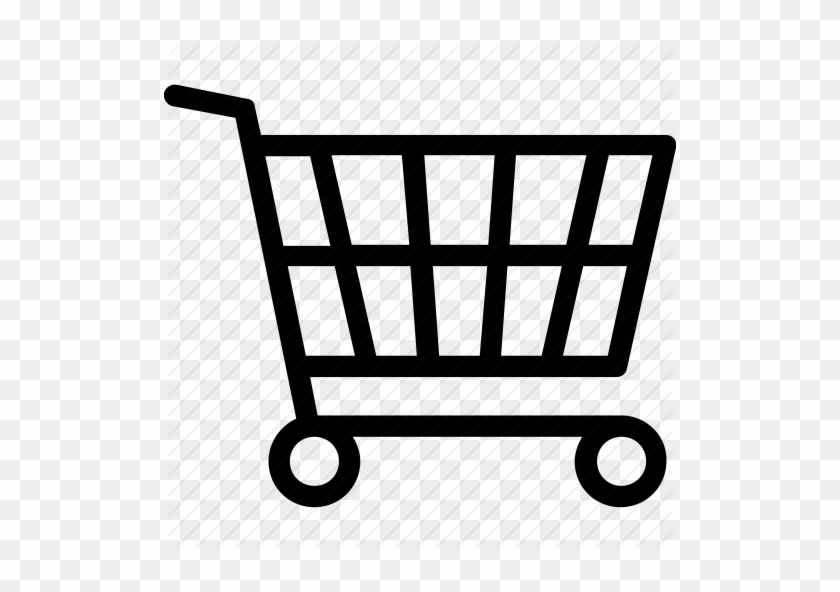
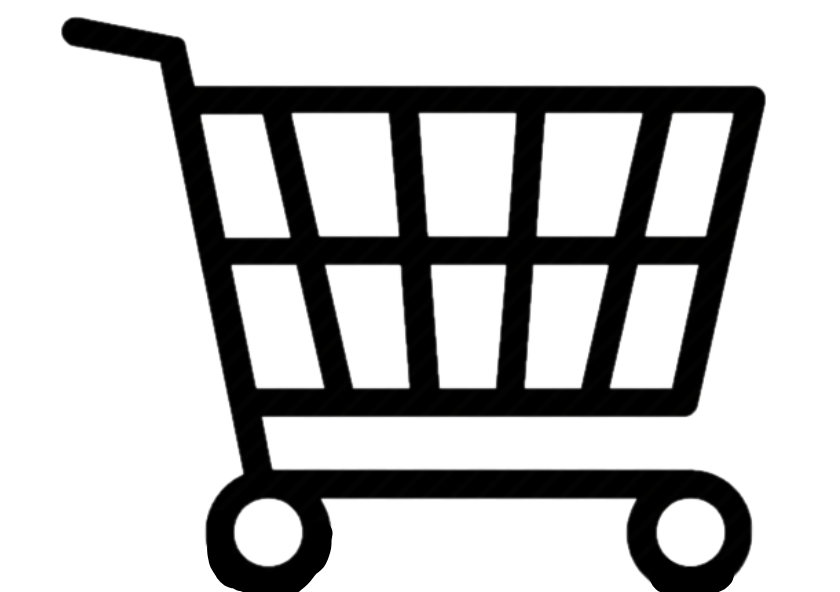
Added the product function, transparent cart

diff --git a/css/logincss.css b/css/logincss.css
@@ -6,7 +6,6 @@ html {
 }
 
 body {
-/* Remember to use the other versions for IE 10 and older browsers! */
 display: flex;
 justify-content: center;
 align-items: center;
@@ -14,9 +13,9 @@ min-height: 100%;
 font-family: 'lato', sans-serif;
 color: #fff;
 background: #c7acac;
-background: #16222A; /* fallback for old browsers */
-background: -webkit-linear-gradient(to top, #352d2d , #ffaec8); /* Chrome 10-25, Safari 5.1-6 */
-background: linear-gradient(to top, #352d2d , #ffaec8); /* W3C, IE 10+/ Edge, Firefox 16+, Chrome 26+, Opera 12+, Safari 7+ */
+background: #16222A; 
+background: -webkit-linear-gradient(to top, #352d2d , #ffaec8); 
+background: linear-gradient(to top, #352d2d , #ffaec8); 
 }
 
 .container {

diff --git a/css/background.css b/css/background.css
@@ -1,0 +1,6 @@
+body {
+    background: #c7acac;
+    background: #16222A;
+    background: -webkit-linear-gradient(to top, #352d2d , #ffaec8);
+    background: linear-gradient(to top, #352d2d , #ffaec8);
+}

diff --git a/index.php b/index.php
@@ -4,15 +4,14 @@ if (session_status() === PHP_SESSION_NONE) {
     session_start();
     $_SESSION['basketTotal'] = 0.00;
 }
-$_SESSION['username'] = "Harry";
 ?>
 
 <header>
     <link href="https://cdn.jsdelivr.net/npm/bootstrap@5.1.3/dist/css/bootstrap.min.css" rel="stylesheet" integrity="sha384-1BmE4kWBq78iYhFldvKuhfTAU6auU8tT94WrHftjDbrCEXSU1oBoqyl2QvZ6jIW3" crossorigin="anonymous">
     <script src="https://cdn.jsdelivr.net/npm/bootstrap@5.1.3/dist/js/bootstrap.bundle.min.js" integrity="sha384-ka7Sk0Gln4gmtz2MlQnikT1wXgYsOg+OMhuP+IlRH9sENBO0LRn5q+8nbTov4+1p" crossorigin="anonymous"></script>
+    <link rel="stylesheet" href="css/background.css">
 </header>
 
-<body>
     <nav class="navbar navbar-dark bg-dark justify-content-between">
         <a class="navbar-brand" style="margin-left:20px;">Vince Shops</a>
         <span class="navbar-text" style="margin-right:10px;">
@@ -26,15 +25,8 @@ $_SESSION['username'] = "Harry";
             <a href="#basket" style="margin-right:10px;"><img src="images/cart.png" style="height:30px;width:40px;"></a>
             <button class="btn btn-outline-success" style="margin-right:2px">
                 <?php
-                    $Currenttime = getTime();
-                    $time = date('H:i:s',strtotime("12 PM"));
                     if (isset($_SESSION['username'])){
-                        if($time > date('H:i:s')){
-                            echo "Good morning, ".$_SESSION['username'];
-                        } else {
-
-                            echo "Good afternoon, ".$_SESSION['username'];
-                        }
+                        echo "Hello, ".$_SESSION['username'];
                     } else {
                         echo "Login";
                     }
@@ -42,4 +34,9 @@ $_SESSION['username'] = "Harry";
             </button>
         </span>
     </nav>
+
+<body>
+    <div class="card-deck" style="display:flex">
+        <?php require('phpScripts/populateCards.php') ?>
+    </div>
 </body

diff --git a/loginPage.php b/loginPage.php
@@ -11,7 +11,7 @@ if(isset($_SESSION['username'])!="")
 <head>
   <link rel="stylesheet" href="https://maxcdn.bootstrapcdn.com/bootstrap/4.3.1/css/bootstrap.min.css">
   <link rel="stylesheet" href="css/logincss.css">
-  <title>Login | DigiTech</title>
+  <title>Login | Vince Shops</title>
   <link rel="icon" href="images/favicon.ico"/>
   <script src="https://use.typekit.net/rjb4unc.js"></script>
   <script>try{Typekit.load({ async: true });}catch(e){}</script>
@@ -20,7 +20,7 @@ if(isset($_SESSION['username'])!="")
 <div class="loginbackground">
 <body>
     <div class="container">
-    <div class="logo"><img src="images/icon.png" style="width:40px;height:40px;margin-top:5px;margin-right:5px;" /></div>
+    <div class="logo"><img src="images/cart.png" style="width:40px;height:40px;margin-top:5px;margin-right:5px;" /></div>
     <?php require('phpScripts/loginScript.php'); ?>
     <div class="login-item">
       <form method="post" class="form form-login">

diff --git a/phpScripts/populateCards.php b/phpScripts/populateCards.php
@@ -1,0 +1,22 @@
+<?php
+require('connectDB.php');
+
+$stmt = $conn -> prepare('SELECT * FROM product_table');
+$stmt -> execute();
+$stmt -> bind_result($productID, $productName, $productDes, $imageLoc);
+$stmt -> store_result();
+
+while ($stmt->fetch()){
+?>
+<div class="card text-center text-white bg-dark mb-3" style="width: 18rem; margin: 5px 5px 5px 5px">
+    <img class="card-img-top" src="images/<?php echo $imageLoc ?>" alt="Card image cap">
+    <div class="card-body">
+      <h5 class="card-title"><?php echo $productName ?></h5>
+      <p class="card-text"><?php echo $productDes ?></p>
+      <a href="#" class="btn btn-primary">Add to cart</a>
+    </div>
+</div>
+
+<?php
+}
+?>
